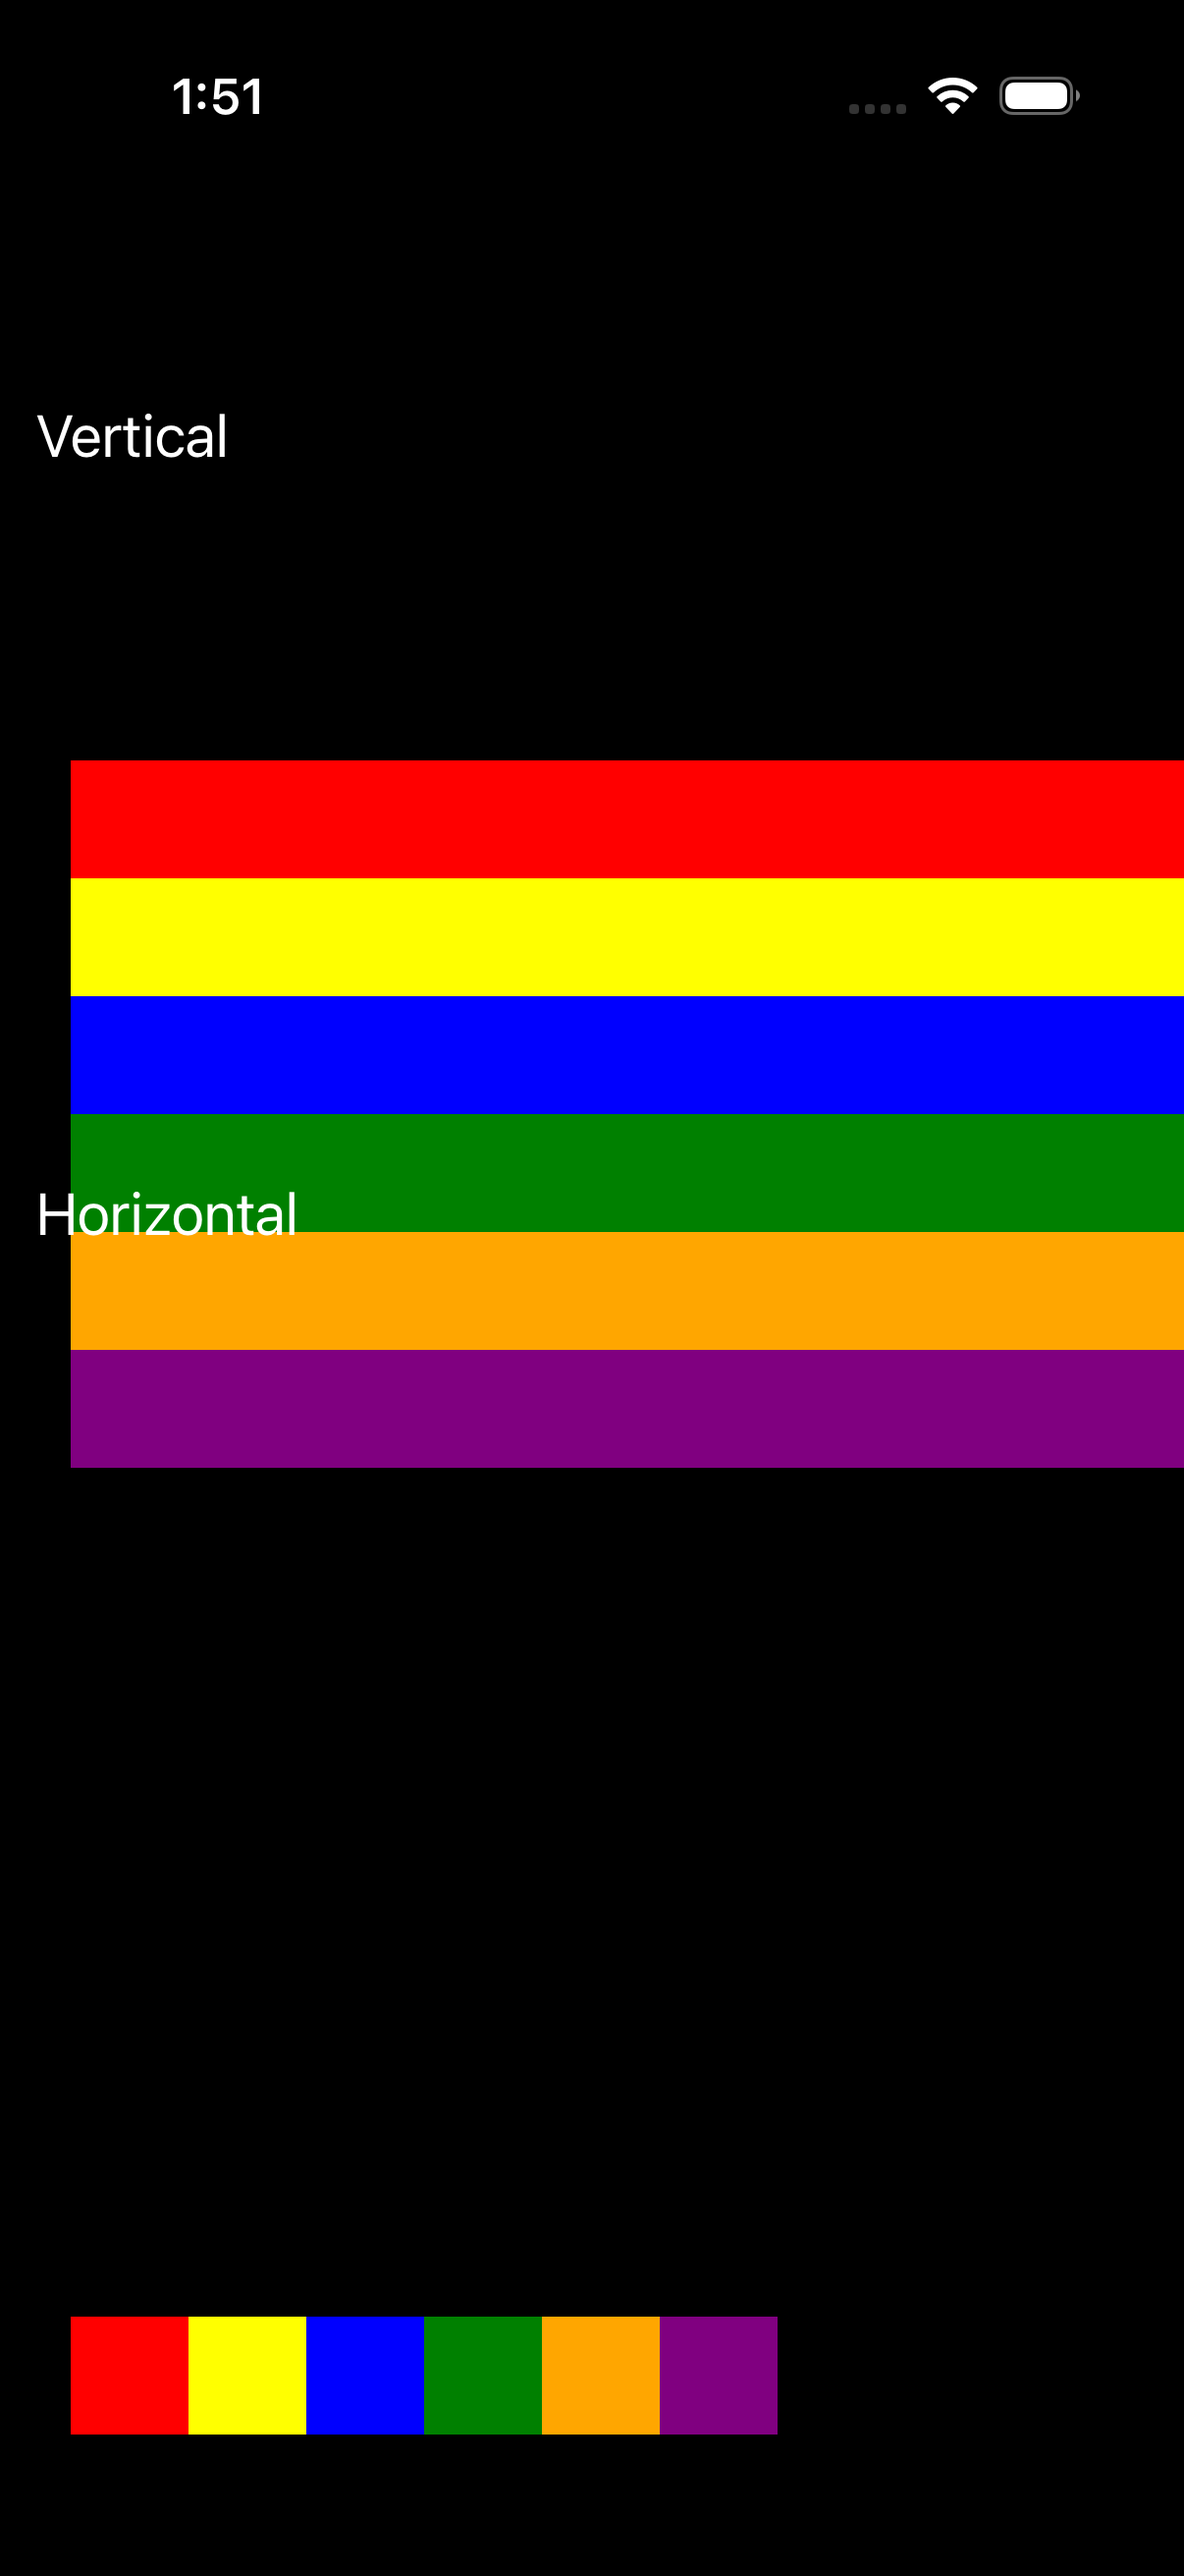
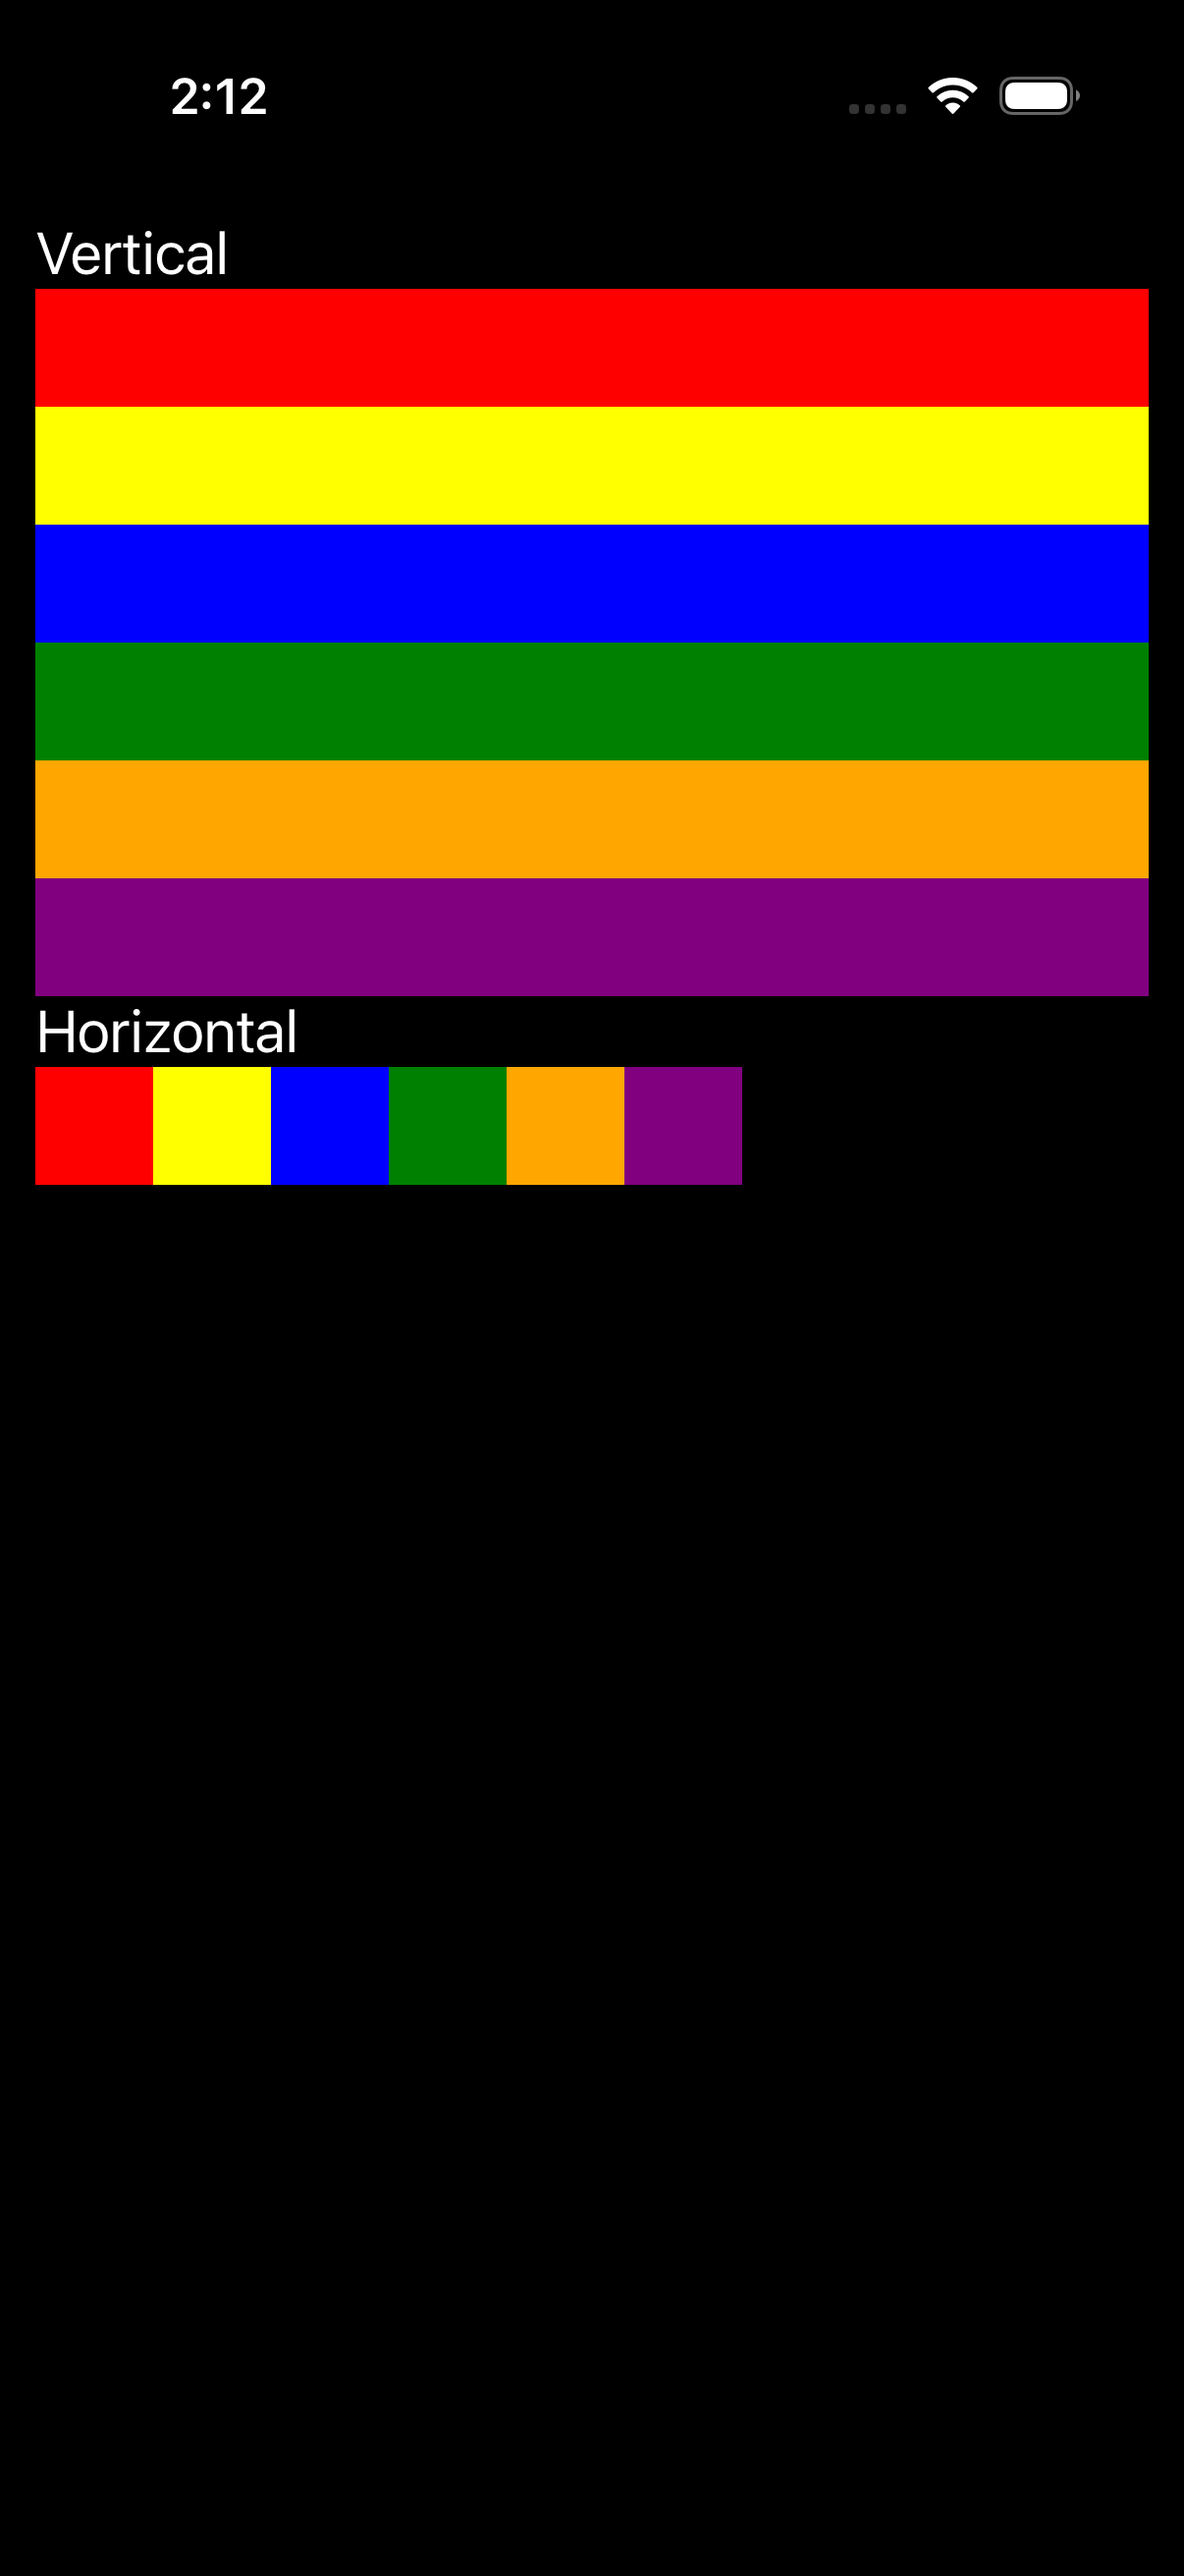
docs(parity): #31 stack_layout diff -> minor (nested-overlap fix validated)
The 404dc2afca host-relative arrange fix resolves the nested-layout
overlap: the Horizontal section now stacks correctly BELOW the Vertical
rainbow (was overlapping it). Re-captured both themes on the rebuilt
gallery — renders correctly. Residual is demo-divergence vs the
maui-compare text stub. Tracker -> minor L/D.

diff --git a/port/cpp/docs/comparison/README.md b/port/cpp/docs/comparison/README.md
@@ -2,7 +2,7 @@
 
 Theme-matched iOS comparison: each page rendered by **real .NET MAUI** vs the **C++ port**, on the same iPhone 17 simulator, compared **light-vs-light** and **dark-vs-dark**. Both stacks render native-default controls + the system font (the C# app's `dotnet new maui` default `Styles.xaml` + OpenSans are stripped; appearance forced via `MAUI_THEME` / `MAUI_APPEARANCE`). Goal: pixel-perfect parity, fixed example-by-example.
 
-**Progress: 0 / 172 🟢 matched** · 31 🟡 minor · 48 🔴 diff · 93 ⬜ pending
+**Progress: 0 / 172 🟢 matched** · 32 🟡 minor · 47 🔴 diff · 93 ⬜ pending
 
 Status legend: 🟢 pixel-match (both themes) · 🟡 minor diff · 🔴 notable diff to fix · ⬜ not yet reviewed. Per-theme verdicts in `parity_status.json`.
 
@@ -42,7 +42,7 @@ Rows are in **fix order** (top → bottom): foundational single controls first (
 | 28 | Behaviors | 🟡<br>L:minor<br>D:minor | ![](csharp_ios_light/behaviors.png) | ![](cpp_ios_light/behaviors.png) | ![](csharp_ios_dark/behaviors.png) | ![](cpp_ios_dark/behaviors.png) |
 | 29 | Semantics | 🟡<br>L:minor<br>D:minor | ![](csharp_ios_light/semantics.png) | ![](cpp_ios_light/semantics.png) | ![](csharp_ios_dark/semantics.png) | ![](cpp_ios_dark/semantics.png) |
 | 30 | App Theme Binding | 🟡<br>L:minor<br>D:minor | ![](csharp_ios_light/app_theme_binding.png) | ![](cpp_ios_light/app_theme_binding.png) | ![](csharp_ios_dark/app_theme_binding.png) | ![](cpp_ios_dark/app_theme_binding.png) |
-| 31 | Stack Layout | 🔴<br>L:diff<br>D:diff | ![](csharp_ios_light/stack_layout.png) | ![](cpp_ios_light/stack_layout.png) | ![](csharp_ios_dark/stack_layout.png) | ![](cpp_ios_dark/stack_layout.png) |
+| 31 | Stack Layout | 🟡<br>L:minor<br>D:minor | ![](csharp_ios_light/stack_layout.png) | ![](cpp_ios_light/stack_layout.png) | ![](csharp_ios_dark/stack_layout.png) | ![](cpp_ios_dark/stack_layout.png) |
 | 32 | Vertical Stack | 🟡<br>L:minor<br>D:minor | ![](csharp_ios_light/vertical_stack.png) | ![](cpp_ios_light/vertical_stack.png) | ![](csharp_ios_dark/vertical_stack.png) | ![](cpp_ios_dark/vertical_stack.png) |
 | 33 | Horizontal Stack | 🟡<br>L:minor<br>D:minor | ![](csharp_ios_light/horizontal_stack.png) | ![](cpp_ios_light/horizontal_stack.png) | ![](csharp_ios_dark/horizontal_stack.png) | ![](cpp_ios_dark/horizontal_stack.png) |
 | 34 | Grid | 🟡<br>L:minor<br>D:minor | ![](csharp_ios_light/grid.png) | ![](cpp_ios_light/grid.png) | ![](csharp_ios_dark/grid.png) | ![](cpp_ios_dark/grid.png) |
